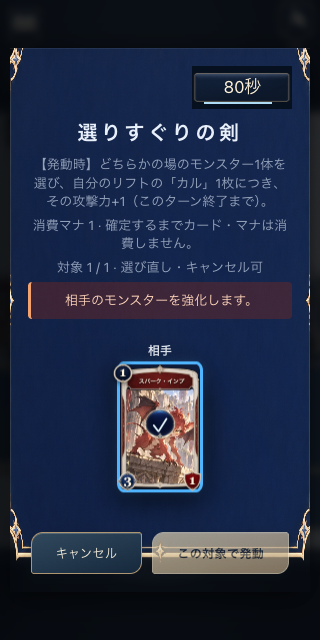
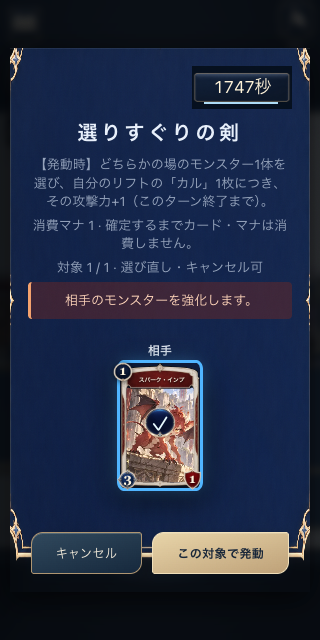
Verify deployed target dialogs and separate fixture timing from timeout cases

Changed region(s): [[0.3438, 0.5625, 0.625, 0.7812], [0.4688, 0.8125, 0.9062, 0.9062], [0.6562, 0.125, 0.8438, 0.1562]]

diff --git a/client/src/game/controller.ts b/client/src/game/controller.ts
@@ -142,7 +142,7 @@ export abstract class BaseController implements BoardHandlers {
       const plan=playIntent(before,this.you,card);
       const targets=await reviewCast(before,this.you,card,plan);
       this.castReviewState=null;
-      if(targets===null || this.dead || this.state!==before)return;
+      if(targets===null || this.dead || this.state!==before){A.setPlayOrigin(null);return;}
       this.submit({type:'play',idx,sourceUid:uid,...(plan?{targets}:{})});
     } else this.submit({type:'play',idx,sourceUid:uid});
   }
